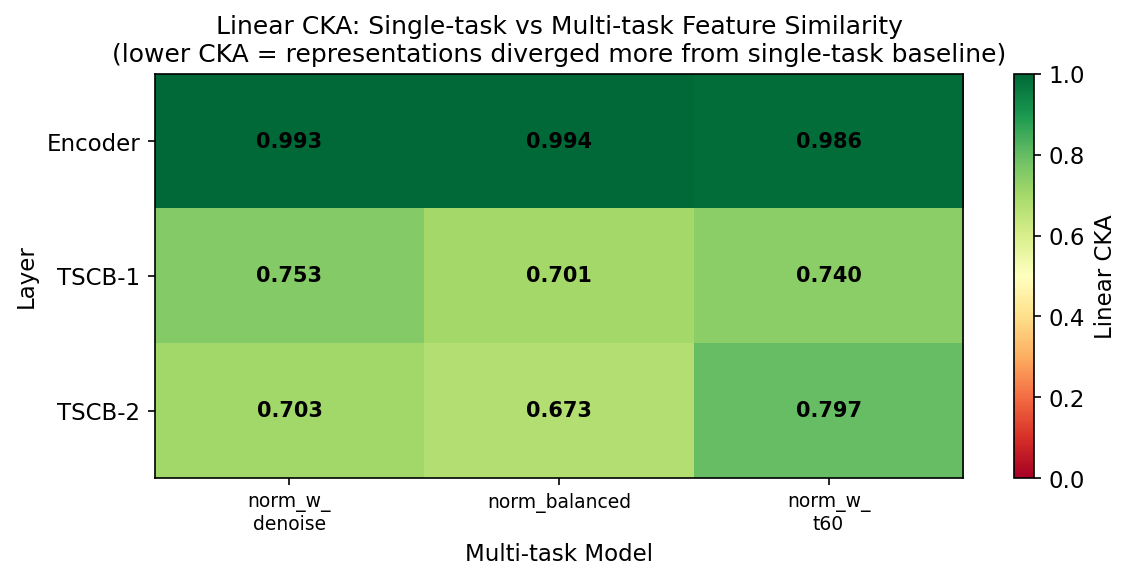
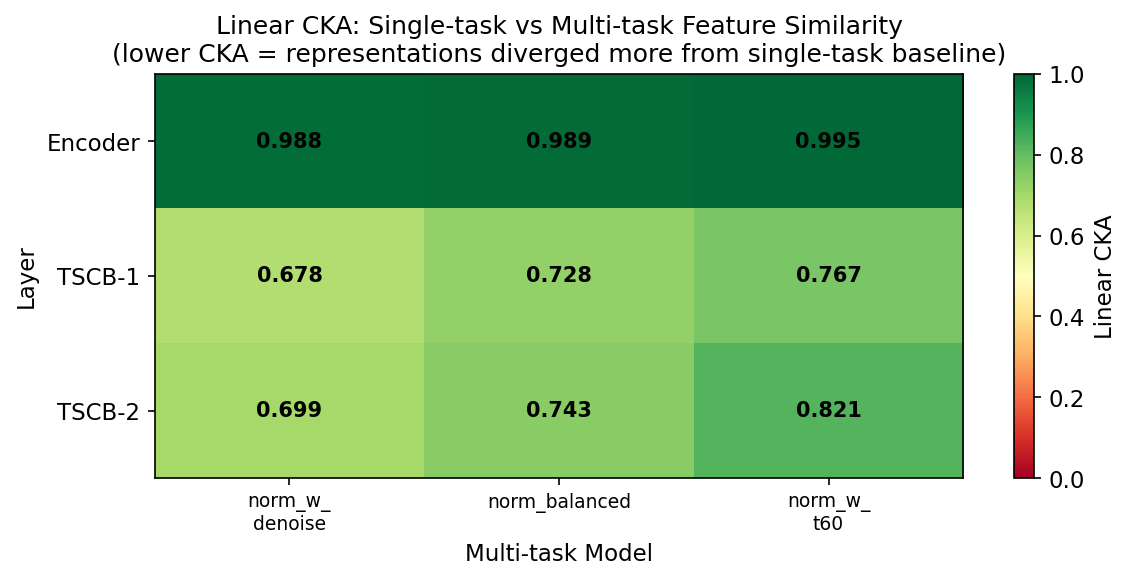
再次更正单任务分析log

diff --git a/analyze_representations.py b/analyze_representations.py
@@ -49,7 +49,7 @@ T60_MIN, T60_MAX = 0.1, 1.5
 
 MODELS = {
     "single_task": {
-        "ckpt": ROOT / "runs/single_t60_kan_v2_mae_clip1_log/best_model.pth",
+        "ckpt": ROOT / "runs/single_t60_kan_v2_mse/best_model.pth",
         "label": "Single-task",
         "color": "#9E9E9E",
         "cls": "single",
